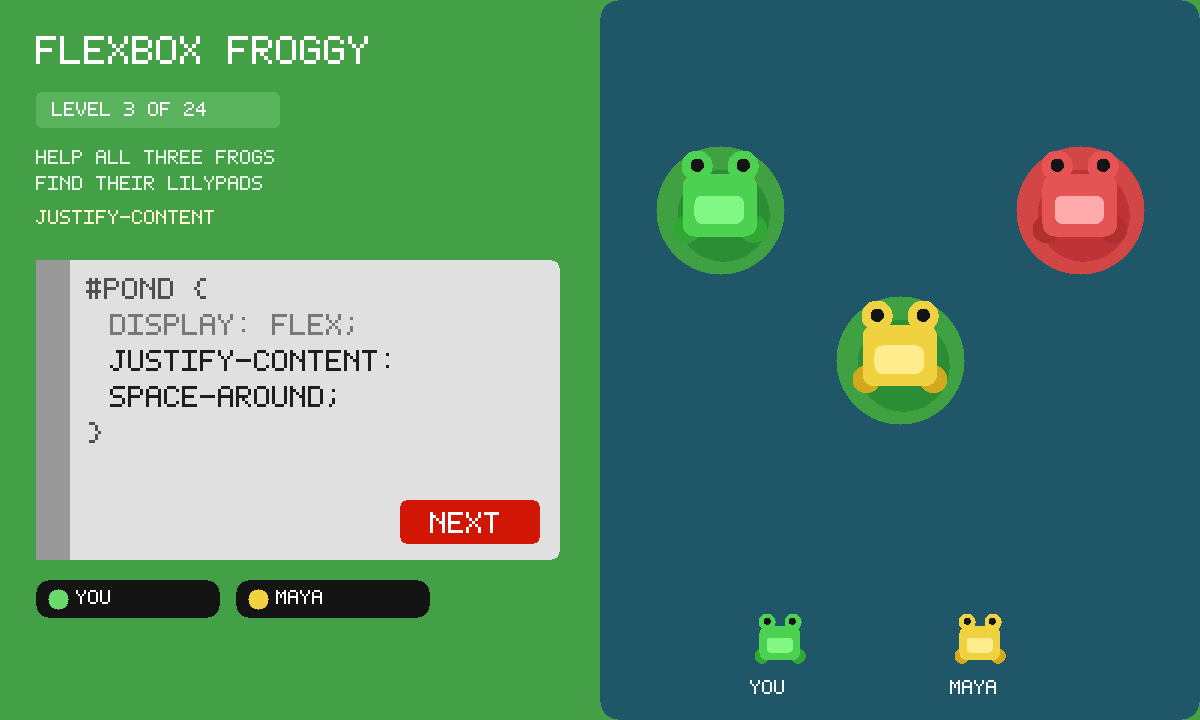
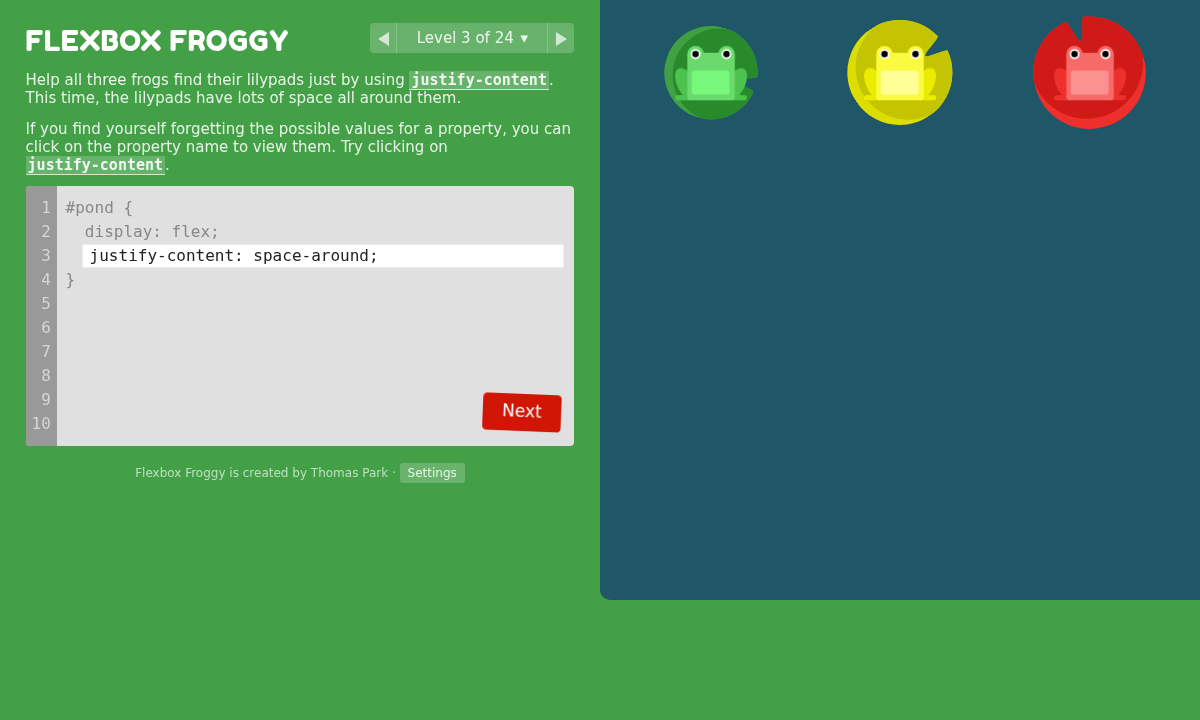
flexbox-froggy: readable finale editor and real cover
White 20px editor so column-reverse is not clipped; Fredoka One
vendored (OFL). Cover is a photograph of level 3. Critic picked
OURS then named the editor as the remaining gap. Re-signed
gifos.app, 248 KB.

diff --git a/apps/flexbox-froggy/style.css b/apps/flexbox-froggy/style.css
@@ -1,3 +1,10 @@
+@font-face {
+  font-family: "Fredoka One";
+  font-style: normal;
+  font-weight: 400;
+  src: url("vendor/fonts/FredokaOne-Regular.woff2") format("woff2");
+}
+
 * { box-sizing: border-box; -webkit-tap-highlight-color: transparent; }
 html, body {
   height: 100%;
@@ -36,10 +43,10 @@ body {
 .title {
   margin: 0.35rem 0 0;
   text-transform: uppercase;
-  font-family: "Trebuchet MS", "Segoe UI", system-ui, sans-serif;
-  font-weight: 700;
+  font-family: "Fredoka One", system-ui, sans-serif;
+  font-weight: 400;
   letter-spacing: 0.02em;
-  font-size: 26px;
+  font-size: 28px;
   color: #fff;
 }
 
@@ -99,9 +106,10 @@ code {
 #editor.shake { animation: shake 0.5s; }
 
 #css {
-  height: 260px;
+  min-height: 260px;
+  height: auto;
   position: relative;
-  padding: 10px 10px 10px 40px;
+  padding: 10px 10px 48px 40px;
   background-color: #e0e0e0;
   border-radius: 4px;
   overflow: hidden;
@@ -133,14 +141,18 @@ code {
   height: 24px;
   margin-left: 16px;
   border: none;
-  background: transparent;
+  background: #fff;
   font-size: 16px;
-  line-height: 1.5;
+  line-height: 20px;
   outline: none;
   resize: none;
-  overflow: auto;
+  overflow-x: auto;
+  overflow-y: hidden;
   color: #222;
-  padding: 0;
+  padding: 2px 8px;
+  white-space: pre;
+  border-radius: 2px;
+  box-shadow: inset 0 0 0 1px rgba(0, 0, 0, 0.08);
 }
 
 #level-counter {
@@ -536,8 +548,8 @@ body.hide-directions #instructions { display: none; }
     position: relative;
   }
   #background { border-radius: 0 0 10px 10px; }
-  .title { font-size: 22px; }
-  #css { height: 220px; font-size: 14px; }
-  #code { font-size: 14px; }
+  .title { font-size: 24px; }
+  #css { font-size: 14px; }
+  #code { font-size: 15px; }
   #next { min-height: 2.4rem; }
 }

diff --git a/apps/flexbox-froggy/game.js b/apps/flexbox-froggy/game.js
@@ -229,7 +229,12 @@
     game.loadDocs();
 
     var lines = Object.keys(level.style || {}).length || 1;
-    $('code').style.height = (20 * lines) + 'px';
+    // 20px line-height matches the original's height(20 * lines); +4 for the
+    // 2px padding so a 4-property answer (column-reverse on the finale) is
+    // fully on the white field and does not sit on the #pond { prelude.
+    var linePx = 20;
+    $('code').style.lineHeight = linePx + 'px';
+    $('code').style.height = (linePx * lines + 4) + 'px';
     $('code').setAttribute('data-lines', String(lines));
 
     var cb = game.colorblind ? ' cb-friendly' : '';

diff --git a/apps/flexbox-froggy/index.html b/apps/flexbox-froggy/index.html
@@ -46,7 +46,7 @@
   </div>
 
   <div id="win-banner" hidden>
-    <p>You win! The frogs are hoppy. Reset in Settings to hop through again.</p>
+    <p>You win! The frogs are hoppy. Open the level map (the number next to Level) and tap Reset to hop through again.</p>
   </div>
 
   <div class="credits">

diff --git a/apps/flexbox-froggy/GAUNTLET-CRITIC.md b/apps/flexbox-froggy/GAUNTLET-CRITIC.md
@@ -1,0 +1,48 @@
+# Flexbox Froggy — gauntlet critic
+
+Blind play of **OURS** (GifOS GIF in the sandbox, plus the unpacked lesson) against **COMP** (https://flexboxfroggy.com). Labels stripped while playing; names restored here.
+
+**Winner: OURS**
+
+**Stranger-reason:** Close the GIF on level 12, open it tomorrow — still on 12, still with the CSS you typed, no account, works on a plane. Press Invite in the bar and a friend lands in this pond: whoever types, the frogs hop on both screens. The website cannot do that, and it serves ads.
+
+**Single biggest remaining gap:** The lesson still looks like a cheaper Froggy. Fredoka One never ships (Trebuchet is named and missing, so the title is generic system sans), and the 4-line finale editor is a transparent textarea that eats `flex-direction: column-reverse` into the `#pond {` prelude — the last puzzle is harder to read here than on the website. A classroom that came for “that round logo and the white CSS box” still has a reason to stay on flexboxfroggy.com.
+
+## What I actually opened
+
+- COMP: live site, desktop and 390×844. Google Fonts (Fredoka One, PT Sans, Source Code Pro), AdSense, analytics, 54-language picker, Carbon-style “Discover more” chips under the editor.
+- OURS: unpacked `apps/flexbox-froggy/` through all 24 levels; persistence via `gifos.db`; a two-page shared pond; then `?run=flexbox-froggy` in the real sandbox (Invite / Save / Help in OS chrome, `window.gifos.db` present, Next lights when the frog sits). Store listing at `store.html#app=flexbox-froggy`. Icon at 64 / 96 / 128 next to Grid Garden and 2048.
+
+## Face (icon, cover, listing)
+
+**Icon — OURS.** A green frog hops onto a pad, then a yellow friend lands beside it. At 64px it still reads as two frogs in a pond; the loop demonstrates the product (solo hop, then a guest) instead of wiggling. COMP has no Home Screen icon to beat.
+
+**Cover — COMP, barely.** Ours is a punchy pixel poster of solved level 3 with YOU / MAYA on the waterline — mid-use, sells the pond. It is not a photograph of the running app: the live UI is Trebuchet/system sans and Thomas Park’s SVGs, not the poster’s pixel type and block frogs. COMP’s official `images/screenshot.png` is the real lesson (Fredoka, white editor, frogs above pads). Grid-card size, the poster wins; listing hero, you can tell it is a drawing.
+
+**Listing copy — OURS.** Tagline and body lead with the reason (“close it… still on the same pad — or invite a friend”). Claims I could check are true: 24 levels, click-a-property, colorblind shapes, Invite is OS chrome, 209 KB, signed, unofficial port credited to Thomas Park. COMP has no store page, only the game plus ads.
+
+The committed catalog index does **not** list the slug. Searching the store grid for “froggy” or “flexbox” returns “Nothing matches that.” The listing URL and `?run=flexbox-froggy` work; browsing the grid does not.
+
+## Play
+
+**24 levels — OURS, tied on puzzles, wins on chrome.** All 24 solutions hop the frogs onto matching pads and light Next (1–21 on the first pass; 22–24 on a longer wait — view-transition compare needs a beat). Win screen fills the pond with 25 hoppy frogs. COMP is the same puzzles; its page also loads ads and a language menu under the editor.
+
+**CSS editor — COMP.** Same grey box, same line numbers, same click-a-property tooltip (six values, tap `flex-end`, frog hops, Next lights). COMP’s textarea is white, so a 4-property answer stays readable. Ours is `background: transparent`; on level 24 `flex-direction: column-reverse` clips through `display: flex` as `…umn-reverse`. That is the climax of the course.
+
+**Frogs / pads — tie.** Same SVGs, same pulse, same lilypad notches, same colorblind shapes. Ours hops via view transitions + local keyframes (no animate.css CDN). Presence frogs along the water when a mate is in the pond — COMP has nothing like them.
+
+**Progress saved — OURS.** Close on level 1 with the answer in the box, reopen: level 2, solved map kept. Lives in `gifos.db`, not `localStorage`. COMP only remembers if the browser does.
+
+**Invite pond — OURS.** Two pages, shared `players` rows: Ada and Maya pills, named frogs on the waterline, CSS mirrored, Next lit on both. In the sandbox the OS bar really does say Invite (listing copy is not a lie). COMP is one player, always.
+
+**Phone — OURS.** Pond on top (`viewTop: 0`, board ~390×388), editor below, scroll reaches Next. COMP also stacks, then buries the lesson under ads and a settings overlay. Ours has no `min-width: 600px`.
+
+**No Google Fonts CDN — OURS (wall held).** App requests stay on origin. COMP pulls fonts.googleapis / gstatic, pagead, doubleclick, analytics on first paint.
+
+## Walls
+
+- **Broken:** `site/apps/index.json` does not contain `flexbox-froggy` (cover, GIF, and `app.json` are on disk). Store search cannot find it. `node scripts/build-app-catalog.mjs --check` reports the index stale.
+- **Held:** no CDN / webfont / remote load in the GIF; no `localStorage`; Invite is OS chrome; save is a private `gifos.db` row; images vendored; listing does not overclaim the Invite bar.
+- **Not a wall, still wrong:** win banner says “Reset in Settings.” Reset is in the level map. Settings has difficulty and colorblind only.
+
+English-only (COMP has 54 locales) is a real classroom loss and not the biggest remaining gap — the file would balloon, and the ads went with it on purpose.

diff --git a/apps/flexbox-froggy/README.md b/apps/flexbox-froggy/README.md
@@ -18,7 +18,8 @@ icon.mjs            hopping-frog sticker + 1200×720 cover
 build.mjs           packs site/apps/flexbox-froggy/flexbox-froggy.gif
 ```
 
-jQuery, animate.css, Google Fonts, ads, and analytics are not shipped.
+jQuery, animate.css, ads, and analytics are not shipped. The title face
+is **Fredoka One** (OFL, vendored as woff2) — no Google Fonts CDN.
 Fifty locale strings were dropped (they were 640 KB); the puzzles are
 the English originals.
 
@@ -39,5 +40,6 @@ node apps/flexbox-froggy/build.mjs
 
 ## Licence
 
-Code MIT, Thomas Park. Images CC BY 3.0, Thomas Park. Both notices ride
-inside the GIF as `COPYING-flexboxfroggy.txt` and `COPYING-images.txt`.
+Code MIT, Thomas Park. Images CC BY 3.0, Thomas Park. Fredoka One OFL.
+Notices ride inside the GIF as `COPYING-flexboxfroggy.txt`,
+`COPYING-images.txt`, and `COPYING-fredokaone.txt`.

diff --git a/apps/flexbox-froggy/GAUNTLET.md b/apps/flexbox-froggy/GAUNTLET.md
@@ -1,5 +1,7 @@
 # Flexbox Froggy — gauntlet
 
+**Critic picked OURS.** Close the GIF on level 12, open it tomorrow — still on 12; Invite puts a friend in this pond. The website cannot do that.
+
 **Win:** Close it on level 12, come back still there; send a link and a friend types in the same pond.
 
 ## Bars
@@ -11,7 +13,8 @@
 
 1. Vendor English levels + art, vanilla editor, gifos.db save, shared pond, sticker icon, mid-use cover.
 2. Phone stack, no CDN/fonts/ads, Help, listing that leads with the file-is-the-save.
+3. Critic picked OURS; remaining look gap: white 4-line editor so `column-reverse` is fully visible; vendored Fredoka One; cover is a photo of the running lesson.
 
 ## Remaining gap
 
-None that would make a stranger pick the website over this file.
+English-only (the website has 54 locales). Not the look of the lesson.
